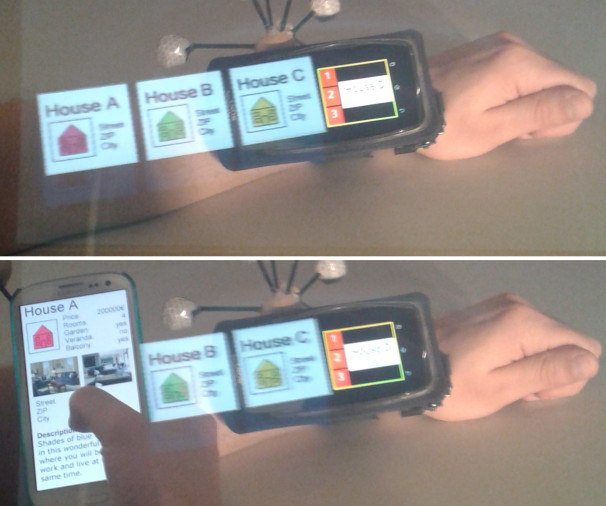
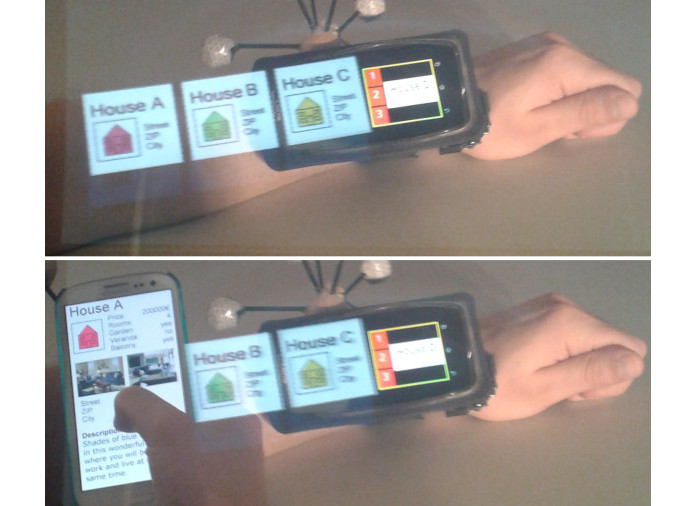
Final version

diff --git a/2_related_works.tex b/2_related_works.tex
@@ -1,19 +1,5 @@
 \section{Related Works}
 
-\begin{frame}{MultiFi}
-  \movie{Grubert2015.jpg}{Grubert2015.mp4}{\small Adapted from: Jens Grubert \textit{et al.} MultiFi: Multi-Fidelity Interaction with Displays On and Around the Body. CHI 2015. https://youtu.be/nf7K7-nB5os}
-\end{frame}
-
-\begin{frame}{MultiFi}
-  \threecols
-    {\figurecaption{Grubert2015_2.jpg}{Body-aligned}}
-    {\figurecaption{Grubert2015_5.jpg}{Device-aligned}}
-    {\figurecaption{Grubert2015_3.jpg}{Side-by-side}}
-  \begin{center}
-    MultiFi's alignment modes
-  \end{center}
-\end{frame}
-
 \begin{frame}{Desktop-Gluey}
   \threecols
     {\figurecaption{Serrano2015a_1.jpg}{}}
@@ -21,5 +7,19 @@
     {\figurecaption{Serrano2015a_3.jpg}{}}
   \begin{center}
     Marcos Serrano \textit{et al.} Desktop-Gluey : Augmenting desktop environments with wearable devices. MobileHCI 2015.
+  \end{center}
+\end{frame}
+
+\begin{frame}{MultiFi}
+  \movie{Grubert2015.jpg}{Grubert2015.mp4}{\small Adapted from: Jens Grubert \textit{et al.} MultiFi: Multi-Fidelity Interaction with Displays On and Around the Body. CHI 2015. https://youtu.be/nf7K7-nB5os}
+\end{frame}
+
+\begin{frame}{MultiFi}
+  \threecols
+    {\figurecaption{Grubert2015_3.jpg}{Body-aligned}}
+    {\figurecaption{Grubert2015_6.jpg}{Side-by-side}}
+    {\figurecaption{Grubert2015_2.jpg}{Device-aligned}}
+  \begin{center}
+    MultiFi's alignment modes
   \end{center}
 \end{frame}

diff --git a/3_concept.tex b/3_concept.tex
@@ -1,21 +1,21 @@
 \section{Design Concept}
 
-\begin{frame}{Design Concept}
+\begin{frame}{Our work: VESAD (Virtually Extended Screen Aligned Display)}
   \twocolsfigure{HandheldVESADApps.jpg}{App list}{HandheldVESADMap.jpg}{Map}{}
   \vspace{-30px}\framefootnote{Mockups.}
 \end{frame}
 
-\begin{frame}{Design Concept}
+\begin{frame}{Our work: VESAD (Virtually Extended Screen Aligned Display)}
   \twocolsfigure{HandheldVESADTooltip.jpg}{Tooltips}{HandheldVESADDogs.jpg}{Photo gallery}{}
   \vspace{-30px}\framefootnote{Mockups.}
 \end{frame}
 
-\begin{frame}{Design Concept}
-  \twocolsfigure{HandheldVESADApps.jpg}{}{HandheldVESADApps2.jpg}{}{Wrist}
+\begin{frame}{Our work: VESAD (Virtually Extended Screen Aligned Display)}
+  \twocolsfigure{HandheldVESADMap.jpg}{}{HandheldVESADApps2.jpg}{}{Wrist}
   \vspace{-25px}\framefootnote{Mockup.}
 \end{frame}
 
-\begin{frame}{Design Concept}
-  \figurecaption{HandheldVESADSlideToHang.jpg}{Slide-to-hand}
+\begin{frame}{Our work: VESAD (Virtually Extended Screen Aligned Display)}
+  \figurecaption{HandheldVESADSlideToHang.jpg}{Slide-to-hang}
   \vspace{-25px}\framefootnote{Mockup.}
 \end{frame}

diff --git a/5_experiment.tex b/5_experiment.tex
@@ -13,7 +13,7 @@
     \Large Is it better to have input only on the phone, or to perform input in mid-air on the VESAD’s plane?
   \end{center}
   \vspace{2em}
-  \twocols{0.5}{\figurecaption[0.5]{Techniques22.png}{Touch input}}{0.5}{\figurecaption[0.5]{Techniques23.png}{Mid-air input}}
+  \twocols{0.5}{\figurecaption[0.5]{Techniques22.png}{Phone input}}{0.5}{\figurecaption[0.5]{Techniques23.png}{Mid-air input}}
 \end{frame}
 
 \begin{frame}{Experimental Task}
@@ -42,9 +42,14 @@
       \item Near
       \item Far
     \end{itemize}
-    \item 12 participants (3 females, 18-26 years)
-    \item 288 trials
+    \item 12 participants
   \end{itemize}
+  
+  \vspace{-50px}
+  \threecols<2-4>
+    {\vspace{-10px}\figurecaption<2->[1]{Techniques11.png}{1}}
+    {\figurecaption<3->[1]{Techniques22.png}{2}}
+    {\figurecaption<4->[1]{Techniques23.png}{3}}
 }{
   \movie<2>{ExperimentPhoneOnly.jpg}{ExperimentPhoneOnly.mp4}{}
   \movie<3>{ExperimentPhoneInArOut.jpg}{ExperimentPhoneInArOut.mp4}{}

diff --git a/6_results.tex b/6_results.tex
@@ -3,13 +3,8 @@
   \framefootnote{\scriptsize 95\% CI errors bars. Lower is better.}
 \end{frame}
 
-\begin{frame}{Errors}
-  \twocolsfigure{errors.png}{}{selections.png}{}{
-  \framefootnote{\scriptsize 95\% CI errors bars. Lower is better.}}
-\end{frame}
-
-\begin{frame}{Navigation Time}
-  \figurecaption[0.9]{navigation_time.png}{}
+\begin{frame}{Number of selections}
+  \figurecaption[0.75]{selections.png}{}
   \framefootnote{\scriptsize 95\% CI errors bars. Lower is better.}
 \end{frame}
 
@@ -19,5 +14,5 @@
 \end{frame}
 
 \begin{frame}{Design Recommendations}
-  \twocolsfigure{HandheldVESADzones_2.png}{Touch input}{HandheldVESADzones_1.png}{Mid-air input}{Recommended interaction zones (green/yellow) and visualization only zones (white).}
+  \twocolsfigure{HandheldVESADzones_2.png}{Phone input}{HandheldVESADzones_1.png}{Mid-air input}{Recommended interaction zones (green/yellow) and visualization only zones (white).}
 \end{frame}

diff --git a/7_summary.tex b/7_summary.tex
@@ -5,14 +5,14 @@
     \item Handheld VESAD : smartphone screen extended by AR.
     \item Contributions:
     \begin{itemize}
-      \item<.-> Concept design exploration.
-      \item<.-> Marker tracking library ArucoUnity.
-      \item<.-> Phone input, VESAD output: faster, less errors and prefered.
-      \item<.-> Mid-air input, VESAD output: potential.
+      \item<.-> Design study.
+      \item<.-> Open-source marker tracking library ArucoUnity.
+      \item<.-> Phone input, VESAD output was faster, less error-prone and subjectively preferred.
+      \item<.-> Mid-air input, VESAD output has potential.
     \end{itemize}
     \item Future work:
     \begin{itemize}
-      \item<.-> Evaluate realistic tasks.
+      \item<.-> Evaluate additional tasks.
       \item<.-> Evaluate a desktop VESAD.
       \item<.-> Compare with gaze pointing.
     \end{itemize}

diff --git a/4_implementation.tex b/4_implementation.tex
@@ -18,9 +18,9 @@
 \begin{frame}{ArucoUnity}
   \twocols{0.5}{
     \begin{itemize}
-      \item Marker tracking library for Unity
+      \item Our open-source marker tracking library for Unity
       \item Calibration and undistortion of pinhole, fisheye and stereoscopic cameras
-      \item OpenCV bindings to Unity
+      \item OpenCV bindings to C\#
       \item Fast and easy to use
       \item \url{https://github.com/NormandErwan/ArucoUnity}
     \end{itemize}
